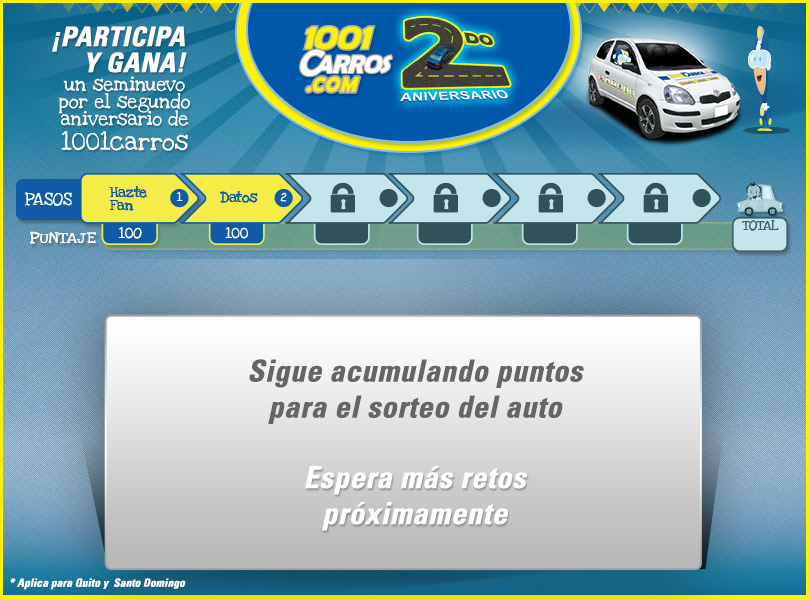
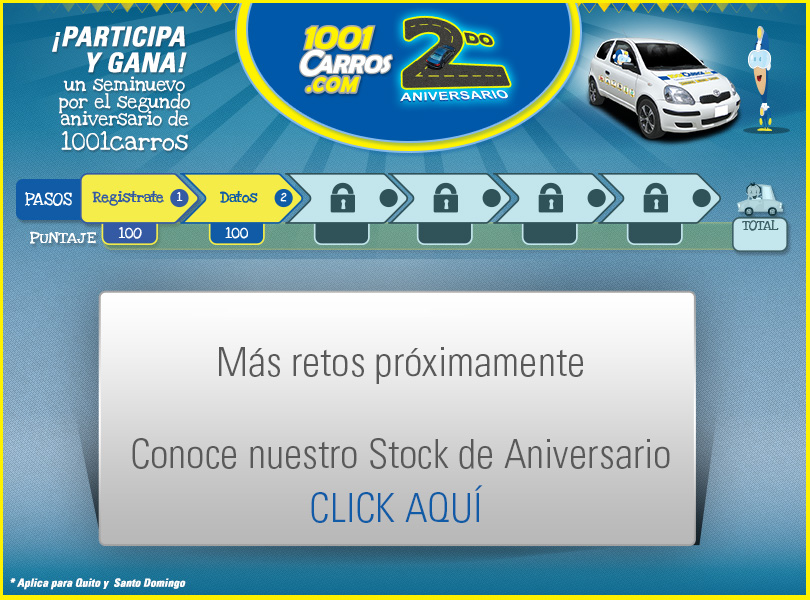
Cambios en query de BD para agregar un indice
ase hgff

Changed region(s): [[0.0926, 0.45, 0.8951, 0.99], [0.0926, 0.3, 0.2469, 0.42]]

diff --git a/desarrollo web/retos.php b/desarrollo web/retos.php
@@ -1,7 +1,5 @@
 <?php
 
-session_start();
-
 $databasehost = "localhost";
 $databasename = "eadvert1_1001aniversario";
 $databaseusername ="eadvert1_1001ani";
@@ -78,7 +76,7 @@ $databasepassword = "Milunani2014!";
 
 	<?php
 	
-	$fbid = $_SESSION['cedula'];
+	$fbid = $_GET['cedula'];
 		
 	$fecha = date("D, d M Y");
 		
@@ -115,9 +113,9 @@ $databasepassword = "Milunani2014!";
 	}	
 	
 	if($aprobados == 2){
-		echo '<div style="width:810px; height:600px; background:url(proximo.jpg) no-repeat top center">
+		echo '<a href="http://www.1001carros.com/index.php/catalogsearch/advanced/result/?marca[]=todos&marca[]=62&marca[]=61&marca[]=60&marca[]=55&marca[]=53&marca[]=87&marca[]=88&marca[]=92&marca[]=93&marca[]=3562&marca[]=98&marca[]=100&marca[]=101&marca[]=104&marca[]=105&marca[]=106&marca[]=77&marca[]=78&marca[]=81&marca[]=83&marca[]=85&marca[]=86&marca[]=72&marca[]=75&year_rango1[]=&year_rango2[]=" target="_top"><div style="width:810px; height:600px; background:url(proximo.jpg) no-repeat top center">
 				<div class="puntos">'.$puntos.'</div>
-				</div>';
+				</div></a>';
 	}
 	
 	if($aprobados == 3){

diff --git a/desarrollo web/enviaform1.php b/desarrollo web/enviaform1.php
@@ -18,7 +18,7 @@
 	$link = mysql_connect($databasehost, $databaseusername, $databasepassword ) or die("Could not connect : " . mysql_error()); 
 	mysql_select_db($databasename) or die("Could not select database"); 
 	
-	$query1 = "INSERT INTO datos VALUES ('".$nombre."','".$telefono."','".$cedula."','".$carro."','".$vende."','".$marca."','".$modelo."','".$ano."','".$fbid."')";
+	$query1 = "INSERT INTO datos VALUES (NULL,'".$nombre."','".$telefono."','".$cedula."','".$carro."','".$vende."','".$marca."','".$modelo."','".$ano."','".$fbid."')";
 	mysql_query($query1);
 	$query3 = "INSERT INTO puntos VALUES ('".$fbid."','100','1','".$fecha."')";
 	mysql_query($query3);
@@ -30,7 +30,7 @@
 	<script>
 	function load()
 	{
-	window.location ="retos.php";
+		window.location ="retos.php?cedula='.$fbid.'";
 	}
 	</script>
 	</head>

diff --git a/index.php b/index.php
@@ -230,9 +230,9 @@ if ($user) {
 	}	
 	
 	if($aprobados == 2){
-		echo '<div style="width:810px; height:600px; background:url(proximo.jpg) no-repeat top center">
+		echo '<a href="http://www.1001carros.com/index.php/catalogsearch/advanced/result/?marca[]=todos&marca[]=62&marca[]=61&marca[]=60&marca[]=55&marca[]=53&marca[]=87&marca[]=88&marca[]=92&marca[]=93&marca[]=3562&marca[]=98&marca[]=100&marca[]=101&marca[]=104&marca[]=105&marca[]=106&marca[]=77&marca[]=78&marca[]=81&marca[]=83&marca[]=85&marca[]=86&marca[]=72&marca[]=75&year_rango1[]=&year_rango2[]=" target="_top"><div style="width:810px; height:600px; background:url(proximo.jpg) no-repeat top center">
 				<div class="puntos">'.$puntos.'</div>
-				</div>';
+				</div></a>';
 	}
 	
 	if($aprobados == 3){

diff --git a/enviaform1.php b/enviaform1.php
@@ -18,7 +18,7 @@
 	$link = mysql_connect($databasehost, $databaseusername, $databasepassword ) or die("Could not connect : " . mysql_error()); 
 	mysql_select_db($databasename) or die("Could not select database"); 
 	
-	$query1 = "INSERT INTO datos VALUES ('".$nombre."','".$telefono."','".$cedula."','".$carro."','".$vende."','".$marca."','".$modelo."','".$ano."','".$fbid."')";
+	$query1 = "INSERT INTO datos VALUES ( NULL,'".$nombre."','".$telefono."','".$cedula."','".$carro."','".$vende."','".$marca."','".$modelo."','".$ano."','".$fbid."')";
 	mysql_query($query1);
 	$query3 = "INSERT INTO puntos VALUES ('".$fbid."','100','1','".$fecha."')";
 	mysql_query($query3);

diff --git a/desarrollo web/formulario.php b/desarrollo web/formulario.php
@@ -25,7 +25,7 @@ echo '<script>
 				<input class="input1" name="telefono" type="text" required id="telefono" placeholder="Tel&eacute;fono / Celular">
 			  </p>
 			  <p>
-				<input class="input1" name="cedula" type="text" required id="cedula" placeholder="C&eacute;dula">
+				<input class="input1" name="cedula" type="text" required id="cedula" placeholder="C&eacute;dula" value="'.$fbid.'">
 			  </p>
 			  <div class="juntos1"><label> Estas interesado en:</label></div>
 				 <div class="juntos1">

diff --git a/desarrollo web/login.php b/desarrollo web/login.php
@@ -1,5 +1,4 @@
 <?php
-    session_start();
 
 	$databasehost = "localhost";
 	$databasename = "eadvert1_1001aniversario";
@@ -7,13 +6,12 @@
 	$databasepassword = "Milunani2014!";
 
     function procesar($post) {
-		$_SESSION['cedula'] = $post['cedula'];
 		echo '
 			<html>
 			    <script>
 				function load()
 					{
-						window.location ="retos.php";
+						window.location ="retos.php?cedula='.$post['cedula'].'";
 					}
 				</script>
 				</head>
